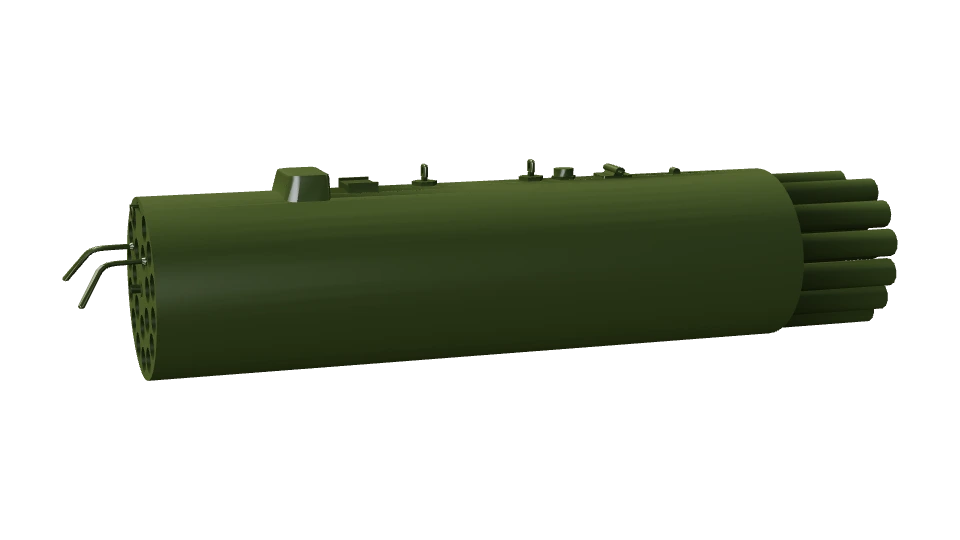
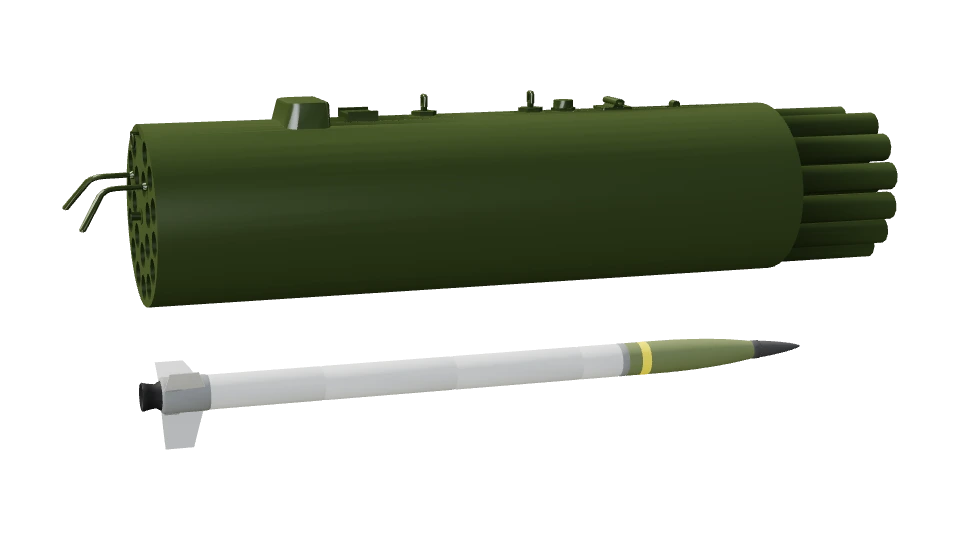
airdef: в миниатюрах НАР — ракета под блоком

Changed region(s): [[0.0625, 0.1778, 0.9375, 0.8296]]

diff --git a/fortuna-bot-web/tools/airdef-models/thumbs.html b/fortuna-bot-web/tools/airdef-models/thumbs.html
@@ -49,7 +49,12 @@ async function objOf(n) {
   if (n.branch === 'pvo') return unitObj(n.key);
   const k = n.item || n.key;
   if (BALL[k]) { wantModel(BALL[k]); const o = await wait(() => anyModel(BALL[k])); if (o) return o; }
-  wantWeapon(k); await wait(() => !weaponPending(k), 60); const w = weaponMesh(k, AG[k], weaponGeo, wMat); setWings(w, 1); return w; // планирующие — с раскрытыми крыльями
+  wantWeapon(k); await wait(() => !weaponPending(k), 60); const w = weaponMesh(k, AG[k], weaponGeo, wMat); setWings(w, 1); // планирующие — с раскрытыми крыльями
+  // НАР со своей моделью ракеты (w_nar_<ключ>): блок и ракета под ним — как ПЗРК: труба и ракета рядом
+  if (AG[k] && AG[k].kind === 'rocket') { wantModel('w_nar_' + k); const rk = await wait(() => anyModel('w_nar_' + k), 40);
+    if (rk) { const g = new THREE.Group(); g.add(w); w.updateMatrixWorld(true); const b = new THREE.Box3().setFromObject(w), rb = new THREE.Box3().setFromObject(rk);
+      rk.position.set((b.min.x + b.max.x) / 2 - (rb.min.x + rb.max.x) / 2, b.min.y - 0.12 - rb.max.y, (b.min.z + b.max.z) / 2 - (rb.min.z + rb.max.z) / 2); g.add(rk); return g; } }
+  return w;
 }
 // свет как в бою (city-render.js / drone/world.js): небо + солнце + отражения неба (PMREM), ACES с экспозицией 1,1
 r.toneMapping = THREE.ACESFilmicToneMapping; r.toneMappingExposure = 1.1; r.physicallyCorrectLights = false;

diff --git a/fortuna-bot-web/AIRDEF_STATE.md b/fortuna-bot-web/AIRDEF_STATE.md
@@ -229,3 +229,4 @@ Mark работает с **Opus на высоком усилии** — он ру
 - 2026-10-21 · Opus 5.5 · решение Mark: язык по умолчанию — русский для всего СНГ (RU_LIKE в i18n.js: ru, be, uk, kk, ky, uz, tg, tk, hy, az — по языку Telegram-аккаунта или устройства), остальным — английский; при первом входе — окно выбора (askLang)
 - 2026-10-21 · Opus 5.5 · своя модель Hydra 70 (Blender по чертежам: tools/airdef-models/own/hydra70.blend/.glb → prepare.js w_nar_hydra, 2832 тр., 82 КБ; main.js relMesh берёт w_nar_<ключ>, иначе прежний narMesh); дымовой след НАР тоньше и короче (plume.js MOTOR.rocket w 10 → 6, g [0,8;16] → [0,35;9], life [5;50] → [4;40], a 0,75 → 0,62, нижний предел ширины 0,3 → 0,15). Правки по итоговому ревью: телефон — потолок 60 к/с только на экранах > 100 Гц (rafEma — средний шаг rAF), на 60 Гц без лишнего пропуска кадров; 3D 30 вне полёта (cap3D/draw3D); сервер — p.out/p.respT сбрасываются каждую волну (их съедал комментарий), бот получает cmFlare по своей машине; jetflame.js — без NaN в билборде строго по оси, WeakRef необязателен, раскал и факел отсекаются по пирамиде видимости; дубль ключа «Мульти-волна» в en-battle.js, устаревшие комментарии. Чертежи-ссылки на следующие модели — tools/airdef-models/blueprints/REFS.md (дальше С-8, R-77, R-27…).
 - 2026-10-21 · Opus 5.5 · своя модель НАР С-8КОМ (Blender по чертежу и фото Wikimedia S-8_KOM_80_mm_rocket.jpg: 1,57 м, Ø 80 / рубашка 82 мм с 13 канавками, взрыватель, стык, кольцо хвоста, втулка с соплом, 6 чёрных лопастей раскрыты вперёд-наружу, размах 384 мм, закрутка 18°; 3718 тр., 93 КБ) → tools/airdef-models/own/s8.blend/.glb → prepare.js w_nar_s8, models.js w_nar_s8 + GLB_V; в бою подхватывается relMesh (w_nar_<ключ>). Hydra 70 выложена Mark на Sketchfab (CC BY).
+- 2026-10-21 · Opus 5.5 · миниатюры «Исследований» wpn_s8 / wpn_hydra: под блоком Б-8 — своя модель ракеты (thumbs.html: у оружия kind 'rocket' с моделью w_nar_<ключ> ракета ложится под блоком, как у ПЗРК; направление сверено по фото Б-8В20А с МАКС-2009 — трубы торчат спереди). Папка для Sketchfab С-8 — ~/Downloads/Воздушное превосходство/Модели/Свои/S-8 — Sketchfab.
